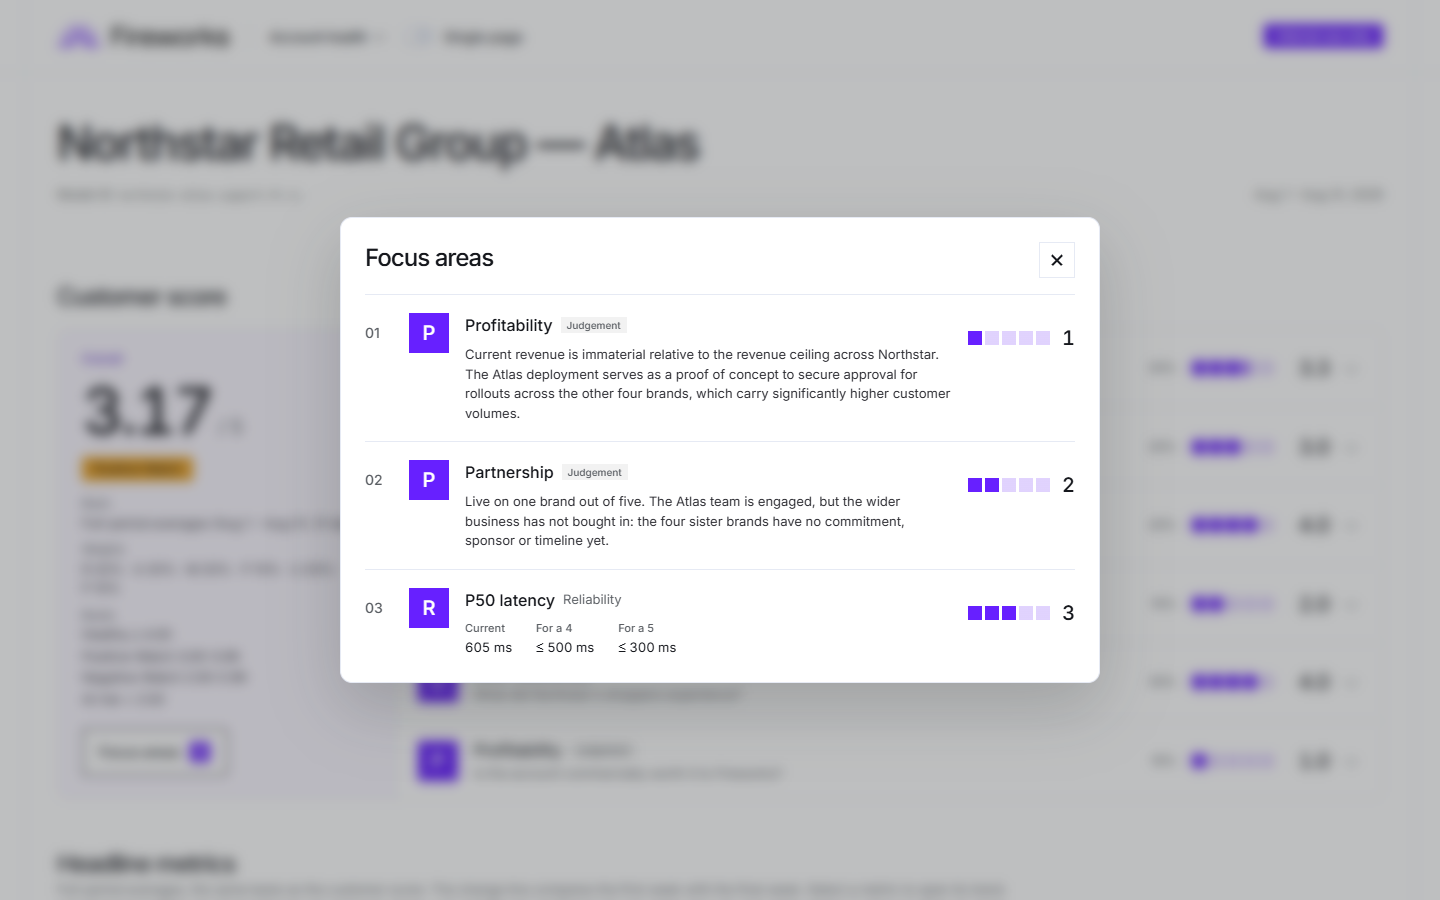
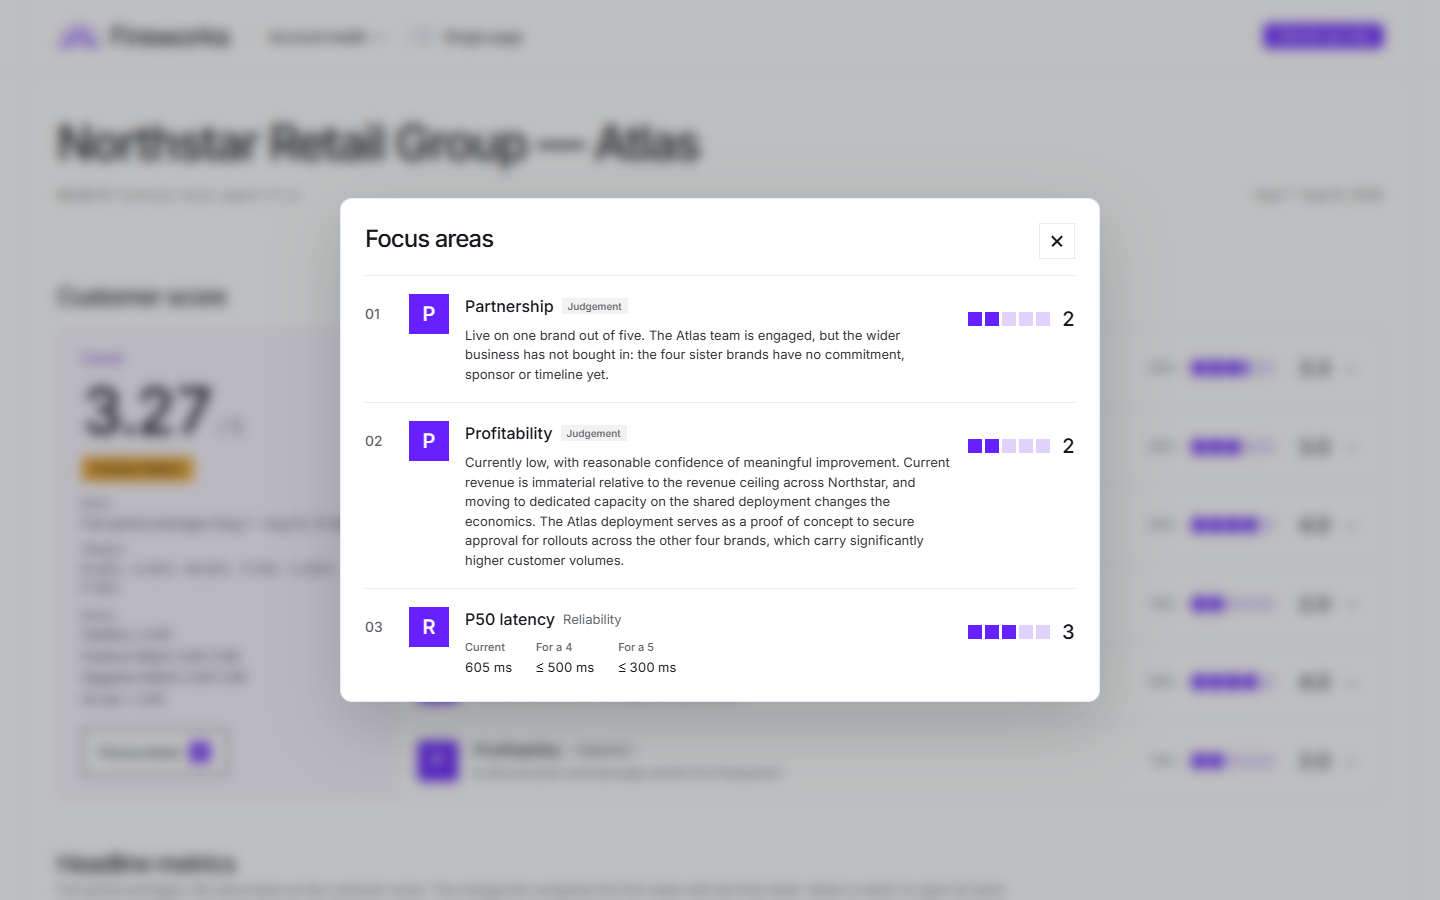
Profitability 1 -> 2: low now, reasonable confidence of improvement (#80)

diff --git a/shared/src/health/rampup.test.ts b/shared/src/health/rampup.test.ts
@@ -11,7 +11,7 @@ const rows = loaded.rows;
 
 const judgements: Record<string, Judgement> = {
   partnership: { score: 2, rationale: 'test' },
-  profitability: { score: 1, rationale: 'test' },
+  profitability: { score: 2, rationale: 'test' },
 };
 
 describe('scoreValue', () => {
@@ -70,7 +70,7 @@ describe('computeHealth on the Northstar dataset (full-period averages)', () => 
   it('weights pillars 20/20/20/10/20/10 and lands in Positive-Watch', () => {
     const weights = health.pillars.map((p) => p.weight);
     expect(weights.reduce((a, b) => a + b, 0)).toBeCloseTo(1, 10);
-    expect(health.score).toBeCloseTo(3.17, 2);
+    expect(health.score).toBeCloseTo(3.27, 2);
     expect(health.status).toBe('positive-watch');
   });
 
@@ -86,8 +86,9 @@ describe('rankRisks', () => {
 
   it('returns the three items furthest from a perfect 5, by exact position', () => {
     const risks = rankRisks(health);
-    expect(risks.map((r) => r.key)).toEqual(['profitability', 'partnership', 'reliability:p50']);
-    expect(risks[0].distance).toBe(4);
+    // Partnership and Profitability tie at 2; ties keep pillar order.
+    expect(risks.map((r) => r.key)).toEqual(['partnership', 'profitability', 'reliability:p50']);
+    expect(risks[0].distance).toBe(3);
     expect(risks[1].distance).toBe(3);
     expect(risks[2].distance).toBeCloseTo(1.35, 2); // 605 ms: 65% of the way from 800 ms to 500 ms
   });

diff --git a/internal-qbr/src/judgements.ts b/internal-qbr/src/judgements.ts
@@ -23,9 +23,11 @@ export function judgements(rows: DailyMetric[]): Record<'partnership' | 'profita
       ],
     },
     profitability: {
-      score: 1,
+      score: 2,
       rationale:
-        'Current revenue is immaterial relative to the revenue ceiling across Northstar. The ' +
+        'Currently low, with reasonable confidence of meaningful improvement. Current revenue is immaterial ' +
+        'relative to the revenue ceiling across Northstar, and moving to dedicated capacity on the shared ' +
+        'deployment changes the economics. The ' +
         `${ACCOUNT.brand} deployment serves as a proof of concept to secure approval for rollouts across the ` +
         'other four brands, which carry significantly higher customer volumes.',
       evidence: [

diff --git a/docs/RAMPUP.md b/docs/RAMPUP.md
@@ -149,7 +149,7 @@ Set by the account team in [`internal-qbr/src/judgements.ts`](../internal-qbr/sr
 | Pillar | Score | Rationale |
 |---|---|---|
 | Partnership | **2** | Live on one brand out of five. The flagship team is engaged, but the wider business hasn't bought in: the four sister brands have no commitment, sponsor or timeline. Next step is an executive sponsor above brand level at the EBR. |
-| Profitability | **1** | Scored from Fireworks' side. Current revenue is immaterial relative to the revenue ceiling across Northstar: $1,213 for August at a contracted ~$1.12 per 1M tokens, approx. $14k annualised. The Atlas deployment serves as a proof of concept to secure approval for rollouts across the other four brands, which carry significantly higher customer volumes (scenario assumption, to be backed by the brand profiles). **Cost to serve:** three operational events in month one (catalogue-sync incident, autoscaling threshold adjustment, RAG index refresh); shared infrastructure and account-level overhead create operating leverage across the five brands, but support effort still grows with each brand (integration, RAG ingestion, eval sets, policy updates, adapter releases, monitoring, incidents). **Strategic value:** a recognised retail logo and an EMEA retail reference account. **Deployment economics:** Atlas is billed per token today; its GPU utilisation can't be derived from billing data (token price vs GPU-second infrastructure) and needs telemetry or load benchmarks. On the shared multi-LoRA deployment Northstar moves to dedicated capacity: one H100 is approx. $5.8k/month at list, approx. $8.8k at the 1.5x region-restricted rate (fireworks.ai/pricing, 5 Oct 2026), approx. $1.2k–1.8k per brand. That puts the GPU floor on Northstar's bill, which is what fixes the margin (see [ARCHITECTURE.md](ARCHITECTURE.md)). |
+| Profitability | **2** | Scored from Fireworks' side. Currently low, with reasonable confidence of meaningful improvement. Current revenue is immaterial relative to the revenue ceiling across Northstar: $1,213 for August at a contracted ~$1.12 per 1M tokens, approx. $14k annualised. The Atlas deployment serves as a proof of concept to secure approval for rollouts across the other four brands, which carry significantly higher customer volumes (scenario assumption, to be backed by the brand profiles). **Cost to serve:** three operational events in month one (catalogue-sync incident, autoscaling threshold adjustment, RAG index refresh); shared infrastructure and account-level overhead create operating leverage across the five brands, but support effort still grows with each brand (integration, RAG ingestion, eval sets, policy updates, adapter releases, monitoring, incidents). **Strategic value:** a recognised retail logo and an EMEA retail reference account. **Deployment economics:** Atlas is billed per token today; its GPU utilisation can't be derived from billing data (token price vs GPU-second infrastructure) and needs telemetry or load benchmarks. On the shared multi-LoRA deployment Northstar moves to dedicated capacity: one H100 is approx. $5.8k/month at list, approx. $8.8k at the 1.5x region-restricted rate (fireworks.ai/pricing, 5 Oct 2026), approx. $1.2k–1.8k per brand. That puts the GPU floor on Northstar's bill, which is what fixes the margin (see [ARCHITECTURE.md](ARCHITECTURE.md)). |
 
 ## Current result (Aug 1–31, 2026, full-period averages)
 
@@ -160,13 +160,13 @@ Set by the account team in [`internal-qbr/src/judgements.ts`](../internal-qbr/sr
 | M | Grounded 93.9% → 4 · eval pass 93.1% → 4 | 4.00 | 0.80 |
 | P | Judgement | 2.00 | 0.20 |
 | U | CSAT 82.3 → 4 · handle time 7m 44s → 4 · first-contact resolution 87.2% → 4 | 4.00 | 0.80 |
-| P | Judgement | 1.00 | 0.10 |
-| **Overall** | | **3.17 / 5 (Positive-Watch)** | |
+| P | Judgement | 2.00 | 0.20 |
+| **Overall** | | **3.27 / 5 (Positive-Watch)** | |
 
 What the score says:
 - **Strengths:** model quality and user outcomes (both 4.0). Adoption is 3.0: automation averaged 67.9%, just under the 70% band, though it ended the month at 70.1%.
 - **Weaknesses:** profitability (current revenue immaterial relative to the group-wide ceiling), partnership (needs buy-in beyond Atlas) and reliability (latency and the Aug 9 incident).
-- **Status:** 3.17 is Positive-Watch, 0.83 short of Healthy.
+- **Status:** 3.27 is Positive-Watch, 0.73 short of Healthy.
 - **For the expansion case:** both judgement pillars point the same way. Scaling to the four sister brands on a shared model is what makes the account worth its support cost and turns a single-brand relationship into a group one. The pitch: "prove reliability on Atlas, win group sponsorship, then scale".
 
 ## Decision log
@@ -179,7 +179,7 @@ What the score says:
 | Availability scale | 99.9 = 5, 0.2-pt steps | Team standard (stricter SLA-anchored alternative documented above) |
 | M and U sources | Microsoft Foundry, RAGAS, Freshworks 2025, Salesforce 2025 (M bands are account-team gates anchored to RAGAS/Foundry practice, not a published scale) | Primary, first-party sources instead of blog aggregators |
 | Escalation | Scored in U as first-contact resolution | Has a direct Freshworks benchmark; keeps M purely about answer correctness |
-| Profitability perspective | Fireworks' commercial view, scored 1 | Current revenue is immaterial relative to the ceiling across Northstar; Atlas is the proof of concept for the group rollout. Customer value already shows in U and the EBR |
+| Profitability perspective | Fireworks' commercial view, scored 2 (was 1) | Current revenue is immaterial relative to the ceiling across Northstar; Atlas is the proof of concept for the group rollout. Customer value already shows in U and the EBR |
 | Status bands | Out of 5: Healthy ≥ 4, Positive-Watch ≥ 3, Negative-Watch ≥ 2, At risk < 2 | Same scale as the scores; splitting Watch shows which way an account is leaning |
 | CSAT yardstick | Salesforce: 85 = 5, 70 = 4, 60 = 3, 50 = 2, below 50 = 1 | Salesforce's general good (70) / poor (50) guidance fits an AI agent better than Freshworks' human-chat retail tiers |
 | Dashboard sources | Plain-text citations, no outbound links | Internal dashboard stays self-contained; full references live in this doc |

diff --git a/docs/DECISIONS.md b/docs/DECISIONS.md
@@ -112,3 +112,4 @@ Scoring-specific detail (bands, sources, formulas) lives in [RAMPUP.md](RAMPUP.m
 | 77 | 2026-10-05 | **Adapters learn behaviour, not policy facts.** Wording changed from "tone and policy behaviour" to "stable tone, workflow and policy-following behaviour" (ARCHITECTURE.md, pilot arm, EBR slides 4–5). Policy facts (return windows, warranty terms) sit in each brand's RAG index or config; a new decision-rule row says so | Facts change and must not be baked into weights; how to follow a policy (explain the rule, offer escalation, never invent an exception) is stable and good fine-tuning material | Leaving "policy" in the adapter's remit |
 | 78 | 2026-10-05 | **Billing model made explicit; GPU-utilisation estimate removed.** Atlas is billed per token today; on the multi-LoRA deployment Northstar moves to paying for dedicated capacity per GPU-second, so the GPU floor sits on Northstar's bill, not Fireworks' cost. "Atlas utilises roughly a fifth of a GPU-day" removed everywhere; the internal "Indicative group value" tile ($115k/yr, token revenue scaled by volume) became "Shared deployment value" ($70k+/yr: one dedicated H100 at list, $105k EU; replicas to be benchmarked). Commercial-structure decision, margin card, profitability evidence, ARCHITECTURE.md economics, README, DESIGN.md, RAMPUP.md and the customer Spend card updated | Dividing token spend by the GPU list price compares a selling price with a cost, so it says nothing about utilisation; that needs telemetry or a load benchmark (tokens ÷ achievable tokens/s for the model, shape and workload). Abbz confirmed the move to dedicated billing | Keeping the ~20% utilisation inference; Fireworks absorbing the GPU floor under per-token pricing |
 | 79 | 2026-10-05 | **Support effort scales per brand; the advantage is operating leverage.** Replaced "support effort does not scale per brand" (profitability evidence, RAMPUP.md) and "per-brand effort is one-off, not ongoing" (Plan view) with: shared infrastructure and account-level overhead create operating leverage, while each brand still adds integration, RAG ingestion, eval sets, policy updates, adapter releases, monitoring and incidents | Infrastructure doesn't scale linearly per brand, but support does; claiming otherwise isn't credible | Keeping the flat-support claim |
+| 80 | 2026-10-05 | **Profitability raised from 1 to 2.** Internal score 3.17 → 3.27 (Positive-Watch); customer score unchanged (P pillars are internal only) | Currently low, with reasonable confidence of meaningful improvement: Northstar moves from per-token billing to dedicated capacity on the shared deployment (#78) | Keeping 1 until the move to dedicated billing is contracted |

diff --git a/docs/ARCHITECTURE.md b/docs/ARCHITECTURE.md
@@ -131,7 +131,7 @@ Scoring stays on month averages (decision #16); the week-4 figures are used only
 - **Today: per-token billing.** Atlas costs Northstar ~$1.2k/month (~$1.12 per 1M tokens, ~$14k/yr). GPU utilisation can't be derived from billing data: the price is per token while dedicated infrastructure is billed per GPU-second, so the GPU-seconds Atlas needs come from deployment telemetry or a load benchmark (tokens ÷ achievable tokens/s for the exact model, shape and workload).
 - **After migration: dedicated capacity.** Northstar pays for the shared multi-LoRA deployment per GPU-second: one H100 is ~$5.8k/month at list (~$70k/yr), ~$8.8k EU-only (~$105k/yr). Shared by five brands that is ~$1.2k–1.8k per brand per month, roughly Atlas's bill today.
 - **How many replicas** depends on the combined five-brand load, which has to be benchmarked on the chosen base model and shape before capacity is committed. Halden on its own deployment later adds a second floor once its volume justifies it.
-- **Why this sits in the expansion plan, not month one.** For Atlas alone, dedicated capacity is 4–7x today's bill; across five brands it is comparable per brand. The move from per-token to dedicated billing is also what makes the account commercially meaningful to Fireworks, which ties to the Profitability score (1) in RAMP UP.
+- **Why this sits in the expansion plan, not month one.** For Atlas alone, dedicated capacity is 4–7x today's bill; across five brands it is comparable per brand. The move from per-token to dedicated billing is also what makes the account commercially meaningful to Fireworks, which ties to the Profitability score (2) in RAMP UP.
 
 ## Pilot: two arms
 
@@ -164,7 +164,7 @@ This framing shows we aren't married to the architecture, and that's what Demi i
 
 **Group-level approval isn't secured, so the account stays single-brand and the shared deployment never reaches the utilisation that justifies it.**
 
-This links the two weakest RAMP UP pillars: Partnership (2) and Profitability (1).
+This links the two weakest RAMP UP pillars: Partnership (2) and Profitability (2).
 
 Mitigation:
 1. Use the EBR to secure an executive sponsor above brand level.

diff --git a/docs/DESIGN.md b/docs/DESIGN.md
@@ -57,7 +57,7 @@ Two dashboards built from the same August dataset: an **internal QBR** for Firew
 | Profitability | 10% | account-team judgement, Fireworks' commercial view (internal only) |
 
 - Each metric scores 1–5 on its **full-period average**, rounded to display precision first; a pillar is the weighted mean of its metrics.
-- **Internal: 3.17 / 5, Positive-Watch** (Healthy ≥ 4, Positive-Watch ≥ 3, Negative-Watch ≥ 2, At risk < 2).
+- **Internal: 3.27 / 5, Positive-Watch** (Healthy ≥ 4, Positive-Watch ≥ 3, Negative-Watch ≥ 2, At risk < 2).
 - **Customer: 3.58 / 5** from the four measured pillars only; the judgement pillars' weight is redistributed, so each shows as 25%.
 - **Focus areas** lists the three items furthest from a perfect 5, by exact position within each band.
 
@@ -65,7 +65,7 @@ Two dashboards built from the same August dataset: an **internal QBR** for Firew
 
 | Item | Internal QBR | Customer health |
 |---|---|---|
-| Health score | All six pillars, 3.17, status band shown | Four measured pillars, 3.58, "Operational health, 1–5", no status band |
+| Health score | All six pillars, 3.27, status band shown | Four measured pillars, 3.58, "Operational health, 1–5", no status band |
 | Focus areas (lowest-scoring items) | Yes | No |
 | Headline metrics and trend charts | Yes | Yes, same figures |
 | Operational events | As logged | Restated in plain customer language |

diff --git a/README.md b/README.md
@@ -20,7 +20,7 @@ The two dashboards are **separate apps** sharing one data and design package (`s
 - **Month one worked.** Tier-1 automation reached 70% by month end (67.9% August average), and quality improved every week.
 - **Reliability is the gap: 99.85% availability, below 99.9% on 27 of 31 days.** The cause can't be read from daily metrics, so the plan is telemetry first, autoscaling retune second, and always-on capacity only if the evidence calls for it (cheap per brand once five brands share it).
 - **Recommendation:** expand on one base model with an adapter, knowledge index and prompt per brand, piloting on Ridgeline first.
-- **Account health:** 3.17 / 5 internally (Positive-Watch); 3.58 / 5 on the customer view, which scores operational pillars only.
+- **Account health:** 3.27 / 5 internally (Positive-Watch); 3.58 / 5 on the customer view, which scores operational pillars only.
 
 ## Quick start
 
